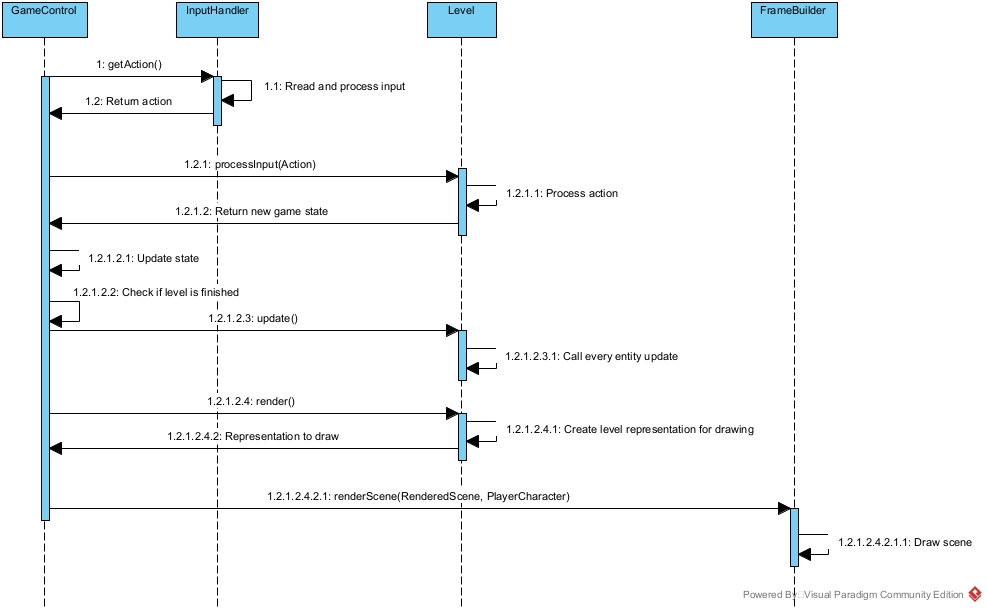
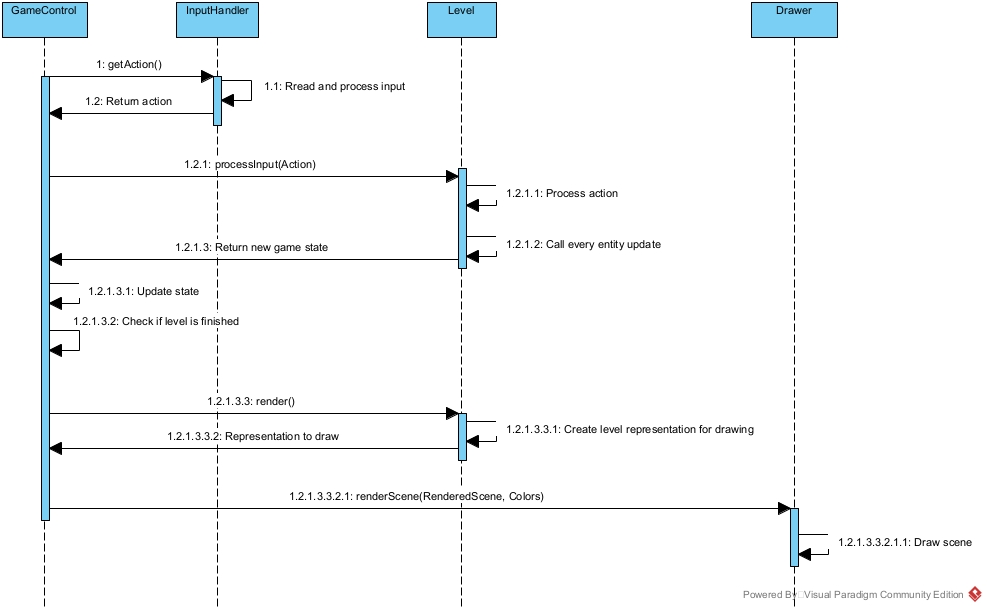
Update arch

diff --git a/Roguelike/ARCHITECTURE.md b/Roguelike/ARCHITECTURE.md
@@ -8,13 +8,10 @@
 
 ### Границы системы
 * Игра является однопользовательской.
-* Консольная графика с плоским "видом сверху".
-* Игрок управляет своим персонажем при помощи клавиатуры. 
+* Консольная графика с плоским "видом сверху". 
 * Игра побита на уровни. 
 Каждый уровень представляет из себя двумерную сетку, в каждой ячейки которой может распологаться какая-то из игровых сущностей.
-* Пользователь имеет возможность в любой момент сохранить свой прогресс, чтобы остановить игру, 
-но сохранение затирает предыдущее, и после смерти персонажа сохранение удаляется.
-
+ и не приведшее к завершению уровня
 ### Контекст
 * Поддержка платформ Windows и Linux (работоспособность под MacOS будет проверяться лишь запуском тестов).
 * Установка будет произодится путем клонирования репозитория с GitHub и выполнения инструкций по установке.
@@ -109,7 +106,6 @@
 ## Логическая структура
 Стиль: Model-View-Control.
 ![Схема классов](images/classes.jpg)
-Схема будет меняться по ходу реализации, сейчас это примерный план без всех подробностей
 
 ### Color
 RGB представление цвета.
@@ -154,13 +150,13 @@ RGB представление цвета.
 Наследник `GameEntity`, является родительским классом для сущностей, которые могу действовать. Имеют метод `update`, 
 который срабатывает на каждом обновлении кадра. Обращается к объекту `Mediator` для взаимодействия с объектом уровня `Level`.
 
-### Character 
+### CharacterEntity
 Наследник `ActingEntity`, представляет из себя персонажей игры. Содержит статистики персонажа `CharacterStats`, 
 его инвентарь `Inventory` и флаг является ли персонаж врагом. Метод `makeDamage` обрабатывает поступающий урон. 
 На схеме показан пример как от данного класса можно насследовать врагов
 
 ### PlayerCharacter
-Наследник `Character`, представляющий из себя персонажа игрока. На данный момент отличее лишь в замене `CharacterStats` 
+Наследник `CharacterEntity`, представляющий из себя персонажа игрока. На данный момент отличее лишь в замене `CharacterStats` 
 на `PlayerStats`.
 
 ### EntityFactory
@@ -171,17 +167,36 @@ RGB представление цвета.
 обрабатывать ввод пользователя (`processInput`).
 
 ### Menu
-Интерфейс для представлений меню, наследник `Scene`. Метод `open` отвечает за установку состояния при открытии. 
-Сейчас предполагаются singleton наследники `InventoryMenu`, `PauseMenu`, `MainMenu`
-отвечающие за меню инвернторя, паузы и главного экрана соответсвенно.
+Интерфейс для представлений меню, наследник `Scene`. Метод `open` отвечает за установку состояния при открытии.
+
+### SimpleMenu 
+Наследник `Menu` Интерфейс для  простых меню с навигацией вверх/вниз.
+
+### MainMenu
+Наследник `SimpleMenu`. Главное меню игры с возможносятми начала новой игры, загрузки, выбора уровня и выхода.
+
+### PauseMenu
+Наследник `SimpleMenu`. Меню паузы. Можно продолжить игру, сохранить ее или выйти в главное меню.
+
+### LvlSelectMenu
+Наследник `SimpleMenu`. Меню выбора уровня с которого начать игру.
 
 ### Level
 Объект для представления уровня, наследник `Scene`. Хранит в себе список сущностей `GameEntity`. 
 Метод `update` вызывает у всех активных сущностей `update`. 
 Отдельно хранит ссылку на персонажа игрока. Флаг `isFinished` говорит о завершенности уровня.
 
+Сейчас все уровни грузятся из файла определенного формата, при необходимости можно заменить на случайную генерацию, но так
+проще тестировать нововведения (можно располагать их на определенном уровне и грузить именно его).
+
+Формат файла уровня таков: сначала идут его размеры, затем задается статическое поле (пол, стены), затем 
+перечисляются специальные сущности с координатами (враги, игрок и пр.).
+
+Уровень завершается, когда игрок доходит до специальной сущности (можно ее например делать неактивной, пока не выполнены 
+какие-то условия).
+
 ### LevelLoader
-Умеет грузить следующий по запросу.
+Умеет грузить следующий уровень по запросу.
 
 ### Mediator
 Посредник, повзоляющий действующим сущностям `ActingEntity` получать информацию о другиъ сущностях, которые находятся на уровне.
@@ -221,3 +236,13 @@ RGB представление цвета.
 ![Схема последовательности](images/sequence.jpg)
 Пример последовательности одной итерации игры, когда на пользователь не совершил действие, переводящее игру из состояния 
 Level в другое и не приведшее к завершению уровня. 
+
+## Выбор графической библиотеки
+Была выбрана библиотека `curses` из-за ее простоты в ипользовании, кроссплатформенности и наложении минимальных ограничений. 
+
+Например, была попытка воспользоваться библиотекой `npyscreen` чтобы отдельно не писать различные меню,
+но данная библиотека накладывала определенные ограничения на архитектуру (библиотека становится центральной компонентой) 
+и не позволяла легко встроить ее в ранее разработанную архитектуру. Многие популярные библиотеки страдают этим.
+По этим причинам и была выбрана `curses` -- она достаточно популярна и в случае проблем можно найти информацию в интернете,
+функционал достаточен для наших нужд (рисовать цветные символы) и при этом легко встраивалась в имеющееся решение, не накладывая 
+почти никаких ограничений.  
